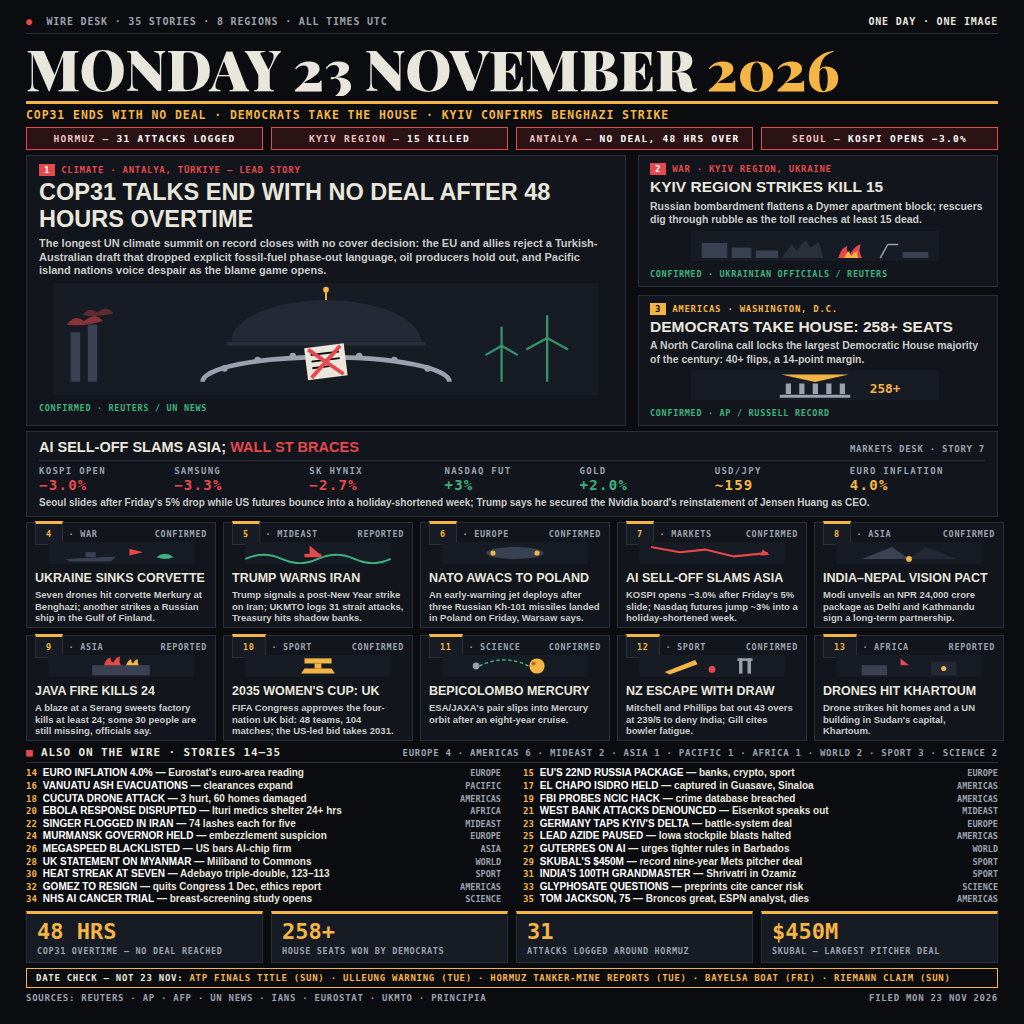
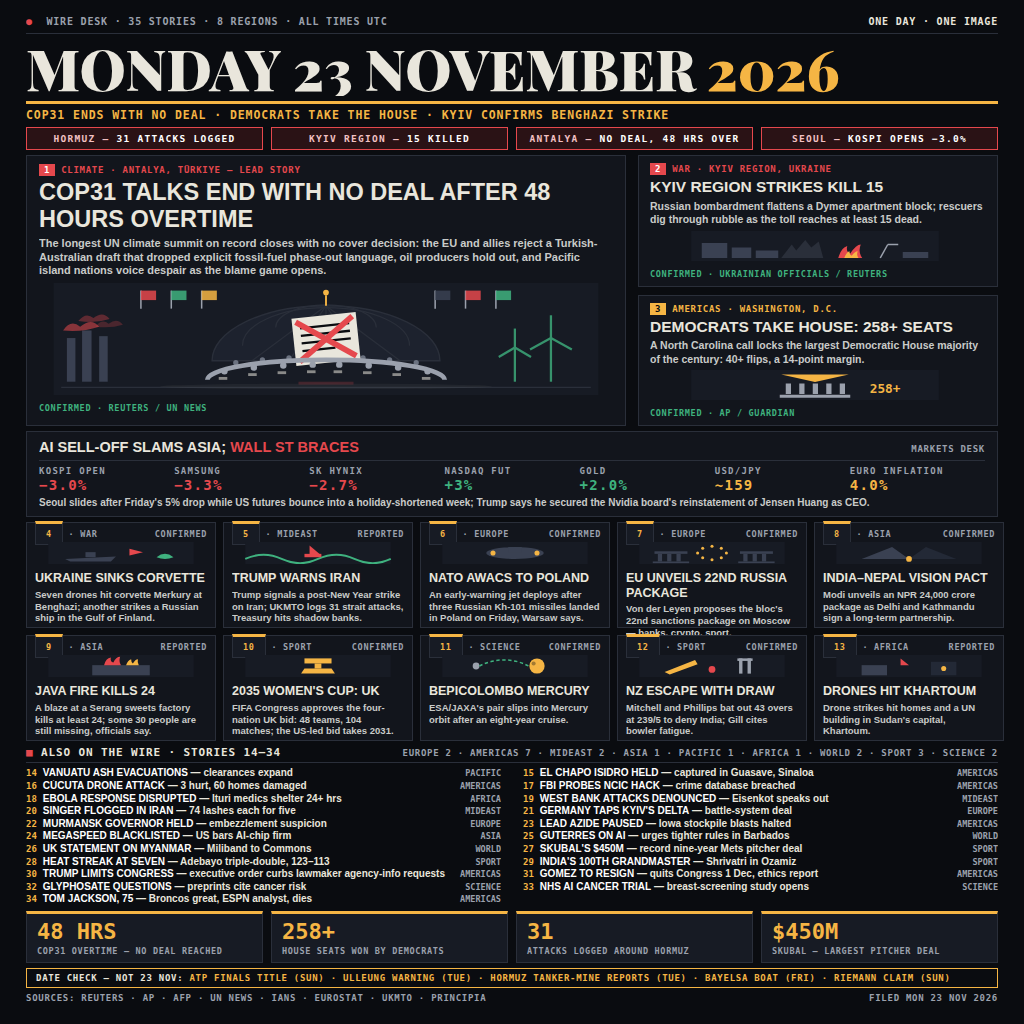
THE WIRE v1.1 — dedupe story 7 + euro inflation, richer COP31 lead art, lead-3 source

diff --git a/page.html b/page.html
@@ -132,32 +132,53 @@
       <div class="art1">
         <svg width="574" height="112" viewBox="0 0 574 118" preserveAspectRatio="xMidYMid meet">
           <rect x="0" y="0" width="574" height="118" fill="#171B24"/>
+          <!-- flags along the back wall -->
+          <g stroke="#9BA1AD" stroke-width="1.6">
+            <line x1="92" y1="8" x2="92" y2="27"/><line x1="124" y1="8" x2="124" y2="27"/><line x1="156" y1="8" x2="156" y2="27"/>
+            <line x1="402" y1="8" x2="402" y2="27"/><line x1="434" y1="8" x2="434" y2="27"/><line x1="466" y1="8" x2="466" y2="27"/>
+          </g>
+          <g opacity="0.85">
+            <rect x="92" y="8" width="16" height="10" fill="#E5484D"/><rect x="124" y="8" width="16" height="10" fill="#3FB27F"/><rect x="156" y="8" width="16" height="10" fill="#F5B544"/>
+            <rect x="402" y="8" width="16" height="10" fill="#3A4152"/><rect x="434" y="8" width="16" height="10" fill="#E5484D"/><rect x="466" y="8" width="16" height="10" fill="#3FB27F"/>
+          </g>
           <!-- factory stacks left -->
-          <rect x="18" y="52" width="10" height="52" fill="#3A4152"/><rect x="36" y="44" width="10" height="60" fill="#3A4152"/>
-          <path d="M14 44 q8 -12 18 -4 q12 -10 20 0 q-18 6 -38 4" fill="#E5484D" opacity="0.55"/>
-          <path d="M30 34 q8 -10 16 -3 q10 -8 17 1 q-15 5 -33 2" fill="#E5484D" opacity="0.35"/>
+          <rect x="14" y="58" width="9" height="46" fill="#3A4152"/><rect x="30" y="50" width="10" height="54" fill="#3A4152"/><rect x="48" y="56" width="9" height="48" fill="#3A4152"/>
+          <path d="M10 50 q8 -12 18 -4 q12 -10 20 0 q-18 6 -38 4" fill="#E5484D" opacity="0.55"/>
+          <path d="M26 40 q8 -10 16 -3 q10 -8 17 1 q-15 5 -33 2" fill="#E5484D" opacity="0.35"/>
+          <path d="M44 46 q7 -9 14 -3 q9 -7 15 1 q-13 4 -29 2" fill="#E5484D" opacity="0.25"/>
           <!-- turbines right -->
           <g stroke="#3FB27F" stroke-width="2.4" fill="none" opacity="0.8">
-            <line x1="520" y1="104" x2="520" y2="58"/><line x1="520" y1="58" x2="520" y2="34"/><line x1="520" y1="58" x2="498" y2="70"/><line x1="520" y1="58" x2="542" y2="70"/>
-            <line x1="472" y1="104" x2="472" y2="66"/><line x1="472" y1="66" x2="472" y2="46"/><line x1="472" y1="66" x2="455" y2="76"/><line x1="472" y1="66" x2="489" y2="76"/>
+            <line x1="524" y1="104" x2="524" y2="58"/><line x1="524" y1="58" x2="524" y2="34"/><line x1="524" y1="58" x2="502" y2="70"/><line x1="524" y1="58" x2="546" y2="70"/>
+            <line x1="486" y1="104" x2="486" y2="68"/><line x1="486" y1="68" x2="486" y2="48"/><line x1="486" y1="68" x2="469" y2="78"/><line x1="486" y1="68" x2="503" y2="78"/>
           </g>
-          <!-- dome -->
-          <path d="M187 62 a100 44 0 0 1 200 0 Z" fill="#232936"/>
-          <rect x="182" y="62" width="210" height="4" fill="#2A2F3A"/>
-          <line x1="287" y1="8" x2="287" y2="18" stroke="#F5B544" stroke-width="2"/>
-          <circle cx="287" cy="7" r="3" fill="#F5B544"/>
-          <!-- table arc -->
-          <path d="M157 104 a130 26 0 0 1 260 0" stroke="#9BA1AD" stroke-width="5" fill="none"/>
-          <g fill="#9BA1AD"><circle cx="180" cy="90" r="3.4"/><circle cx="215" cy="81" r="3.4"/><circle cx="252" cy="77" r="3.4"/><circle cx="322" cy="77" r="3.4"/><circle cx="359" cy="81" r="3.4"/><circle cx="394" cy="90" r="3.4"/></g>
-          <!-- draft document with red X -->
-          <g transform="rotate(-7 287 84)">
-            <rect x="266" y="66" width="42" height="34" fill="#E9E6DC"/>
-            <line x1="272" y1="74" x2="302" y2="74" stroke="#0A0C10" stroke-width="2"/>
-            <line x1="272" y1="81" x2="302" y2="81" stroke="#0A0C10" stroke-width="2"/>
-            <line x1="272" y1="88" x2="292" y2="88" stroke="#0A0C10" stroke-width="2"/>
-            <line x1="270" y1="68" x2="304" y2="98" stroke="#E5484D" stroke-width="4"/>
-            <line x1="304" y1="68" x2="270" y2="98" stroke="#E5484D" stroke-width="4"/>
+          <!-- plenary dome with ribbing -->
+          <path d="M167 82 a120 58 0 0 1 240 0 Z" fill="#1D222E" stroke="#2A2F3A" stroke-width="1.5"/>
+          <g stroke="#2A2F3A" stroke-width="1.3" fill="none">
+            <path d="M287 24 L209 82"/><path d="M287 24 L248 82"/><path d="M287 24 L287 82"/><path d="M287 24 L326 82"/><path d="M287 24 L365 82"/>
+            <path d="M199 66 a88 40 0 0 1 176 0"/><path d="M234 47 a53 24 0 0 1 106 0"/>
           </g>
+          <line x1="287" y1="13" x2="287" y2="24" stroke="#F5B544" stroke-width="2"/>
+          <circle cx="287" cy="10" r="3" fill="#F5B544"/>
+          <!-- back row of delegates -->
+          <g fill="#6B7280"><circle cx="192" cy="84" r="2.8"/><circle cx="220" cy="81" r="2.8"/><circle cx="248" cy="79" r="2.8"/><circle cx="326" cy="79" r="2.8"/><circle cx="354" cy="81" r="2.8"/><circle cx="382" cy="84" r="2.8"/></g>
+          <!-- rejected draft document, large at centre -->
+          <g transform="rotate(-6 287 59)">
+            <rect x="253" y="34" width="68" height="50" fill="#E9E6DC"/>
+            <line x1="261" y1="45" x2="313" y2="45" stroke="#0A0C10" stroke-width="2.4"/>
+            <line x1="261" y1="53" x2="313" y2="53" stroke="#0A0C10" stroke-width="2.4"/>
+            <line x1="261" y1="61" x2="313" y2="61" stroke="#0A0C10" stroke-width="2.4"/>
+            <line x1="261" y1="69" x2="296" y2="69" stroke="#0A0C10" stroke-width="2.4"/>
+            <line x1="257" y1="38" x2="317" y2="80" stroke="#E5484D" stroke-width="6"/>
+            <line x1="317" y1="38" x2="257" y2="80" stroke="#E5484D" stroke-width="6"/>
+          </g>
+          <!-- curved delegates' table with front row + nameplates -->
+          <path d="M162 102 a125 21 0 0 1 250 0" stroke="#9BA1AD" stroke-width="5" fill="none"/>
+          <g fill="#9BA1AD"><circle cx="180" cy="93" r="3.4"/><circle cx="211" cy="89" r="3.4"/><circle cx="242" cy="87" r="3.4"/><circle cx="273" cy="86" r="3.4"/><circle cx="301" cy="86" r="3.4"/><circle cx="332" cy="87" r="3.4"/><circle cx="363" cy="89" r="3.4"/><circle cx="394" cy="93" r="3.4"/></g>
+          <g fill="#E9E6DC" opacity="0.55"><rect x="174" y="99" width="9" height="3"/><rect x="205" y="95" width="9" height="3"/><rect x="236" y="93" width="9" height="3"/><rect x="267" y="92" width="9" height="3"/><rect x="295" y="92" width="9" height="3"/><rect x="326" y="93" width="9" height="3"/><rect x="357" y="95" width="9" height="3"/><rect x="388" y="99" width="9" height="3"/></g>
+          <!-- floor + reflection -->
+          <line x1="8" y1="110" x2="566" y2="110" stroke="#2A2F3A" stroke-width="1.5"/>
+          <ellipse cx="287" cy="109" rx="175" ry="3" fill="#E9E6DC" opacity="0.05"/>
+          <rect x="258" y="104" width="58" height="3" fill="#E5484D" opacity="0.22"/>
         </svg>
       </div>
       <div class="tag mono">CONFIRMED · REUTERS / UN NEWS</div>
@@ -193,7 +214,7 @@
             <text x="238" y="30" font-family="DejaVu Sans Mono" font-size="17" font-weight="700" fill="#F5B544">258+</text>
           </svg>
         </div>
-        <div class="tag mono">CONFIRMED · AP / RUSSELL RECORD</div>
+        <div class="tag mono">CONFIRMED · AP / GUARDIAN</div>
       </div>
     </div>
   </div>
@@ -202,7 +223,7 @@
   <div class="markets">
     <div class="mk-head">
       <div class="mk-title chk">AI SELL-OFF SLAMS ASIA; <span>WALL ST BRACES</span></div>
-      <div class="mk-note mono">MARKETS DESK · STORY 7</div>
+      <div class="mk-note mono">MARKETS DESK</div>
     </div>
     <div class="mk-table mono">
       <div class="mk"><div class="sym">KOSPI OPEN</div><div class="val down">−3.0%</div></div>
@@ -237,10 +258,10 @@
       <p class="chk">An early-warning jet deploys after three Russian Kh-101 missiles landed in Poland on Friday, Warsaw says.</p>
     </div>
     <div class="card">
-      <div class="desk mono"><span><span class="num">7</span> · MARKETS</span><span>CONFIRMED</span></div>
-      <svg class="strip" width="172" height="26" viewBox="0 0 172 26"><rect width="172" height="26" fill="#171B24"/><path d="M14 6 l34 6 l30 -3 l34 8 l40 -4" stroke="#E5484D" stroke-width="2.4" fill="none"/><path d="M146 9 l8 6 l-11 1 Z" fill="#E5484D"/></svg>
-      <h3 class="chk">AI SELL-OFF SLAMS ASIA</h3>
-      <p class="chk">KOSPI opens −3.0% after Friday's 5% slide; Nasdaq futures jump ~3% into a holiday-shortened week.</p>
+      <div class="desk mono"><span><span class="num">7</span> · EUROPE</span><span>CONFIRMED</span></div>
+      <svg class="strip" width="172" height="26" viewBox="0 0 172 26"><rect width="172" height="26" fill="#171B24"/><g fill="#F5B544"><circle cx="86" cy="5" r="1.8"/><circle cx="97" cy="7.5" r="1.8"/><circle cx="103" cy="13" r="1.8"/><circle cx="97" cy="18.5" r="1.8"/><circle cx="86" cy="21" r="1.8"/><circle cx="75" cy="18.5" r="1.8"/><circle cx="69" cy="13" r="1.8"/><circle cx="75" cy="7.5" r="1.8"/></g><g fill="#3A4152"><rect x="22" y="14" width="5" height="9"/><rect x="33" y="14" width="5" height="9"/><rect x="44" y="14" width="5" height="9"/><rect x="123" y="14" width="5" height="9"/><rect x="134" y="14" width="5" height="9"/><rect x="145" y="14" width="5" height="9"/></g><rect x="18" y="11" width="39" height="3" fill="#3A4152"/><rect x="119" y="11" width="39" height="3" fill="#3A4152"/><rect x="16" y="23" width="43" height="2" fill="#3A4152"/><rect x="117" y="23" width="43" height="2" fill="#3A4152"/></svg>
+      <h3 class="chk">EU UNVEILS 22ND RUSSIA PACKAGE</h3>
+      <p class="chk">Von der Leyen proposes the bloc's 22nd sanctions package on Moscow — banks, crypto, sport.</p>
     </div>
     <div class="card">
       <div class="desk mono"><span><span class="num">8</span> · ASIA</span><span>CONFIRMED</span></div>
@@ -283,32 +304,31 @@
   <!-- 7 · ALSO ON THE WIRE -->
   <div>
     <div class="also-head">
-      <div class="also-title mono"><b>■</b> ALSO ON THE WIRE · STORIES 14–35</div>
-      <div class="also-sub mono">EUROPE 4 · AMERICAS 6 · MIDEAST 2 · ASIA 1 · PACIFIC 1 · AFRICA 1 · WORLD 2 · SPORT 3 · SCIENCE 2</div>
+      <div class="also-title mono"><b>■</b> ALSO ON THE WIRE · STORIES 14–34</div>
+      <div class="also-sub mono">EUROPE 2 · AMERICAS 7 · MIDEAST 2 · ASIA 1 · PACIFIC 1 · AFRICA 1 · WORLD 2 · SPORT 3 · SCIENCE 2</div>
     </div>
     <div class="also">
-      <div class="aline chk"><span class="tx"><span class="no">14</span><b>EURO INFLATION 4.0%</b> — Eurostat's euro-area reading</span><span class="rg">EUROPE</span></div>
-      <div class="aline chk"><span class="tx"><span class="no">15</span><b>EU'S 22ND RUSSIA PACKAGE</b> — banks, crypto, sport</span><span class="rg">EUROPE</span></div>
-      <div class="aline chk"><span class="tx"><span class="no">16</span><b>VANUATU ASH EVACUATIONS</b> — clearances expand</span><span class="rg">PACIFIC</span></div>
-      <div class="aline chk"><span class="tx"><span class="no">17</span><b>EL CHAPO ISIDRO HELD</b> — captured in Guasave, Sinaloa</span><span class="rg">AMERICAS</span></div>
-      <div class="aline chk"><span class="tx"><span class="no">18</span><b>CÚCUTA DRONE ATTACK</b> — 3 hurt, 60 homes damaged</span><span class="rg">AMERICAS</span></div>
-      <div class="aline chk"><span class="tx"><span class="no">19</span><b>FBI PROBES NCIC HACK</b> — crime database breached</span><span class="rg">AMERICAS</span></div>
-      <div class="aline chk"><span class="tx"><span class="no">20</span><b>EBOLA RESPONSE DISRUPTED</b> — Ituri medics shelter 24+ hrs</span><span class="rg">AFRICA</span></div>
-      <div class="aline chk"><span class="tx"><span class="no">21</span><b>WEST BANK ATTACKS DENOUNCED</b> — Eisenkot speaks out</span><span class="rg">MIDEAST</span></div>
-      <div class="aline chk"><span class="tx"><span class="no">22</span><b>SINGER FLOGGED IN IRAN</b> — 74 lashes each for five</span><span class="rg">MIDEAST</span></div>
-      <div class="aline chk"><span class="tx"><span class="no">23</span><b>GERMANY TAPS KYIV'S DELTA</b> — battle-system deal</span><span class="rg">EUROPE</span></div>
-      <div class="aline chk"><span class="tx"><span class="no">24</span><b>MURMANSK GOVERNOR HELD</b> — embezzlement suspicion</span><span class="rg">EUROPE</span></div>
-      <div class="aline chk"><span class="tx"><span class="no">25</span><b>LEAD AZIDE PAUSED</b> — Iowa stockpile blasts halted</span><span class="rg">AMERICAS</span></div>
-      <div class="aline chk"><span class="tx"><span class="no">26</span><b>MEGASPEED BLACKLISTED</b> — US bars AI-chip firm</span><span class="rg">ASIA</span></div>
-      <div class="aline chk"><span class="tx"><span class="no">27</span><b>GUTERRES ON AI</b> — urges tighter rules in Barbados</span><span class="rg">WORLD</span></div>
-      <div class="aline chk"><span class="tx"><span class="no">28</span><b>UK STATEMENT ON MYANMAR</b> — Miliband to Commons</span><span class="rg">WORLD</span></div>
-      <div class="aline chk"><span class="tx"><span class="no">29</span><b>SKUBAL'S $450M</b> — record nine-year Mets pitcher deal</span><span class="rg">SPORT</span></div>
-      <div class="aline chk"><span class="tx"><span class="no">30</span><b>HEAT STREAK AT SEVEN</b> — Adebayo triple-double, 123–113</span><span class="rg">SPORT</span></div>
-      <div class="aline chk"><span class="tx"><span class="no">31</span><b>INDIA'S 100TH GRANDMASTER</b> — Shrivatri in Ozamiz</span><span class="rg">SPORT</span></div>
-      <div class="aline chk"><span class="tx"><span class="no">32</span><b>GOMEZ TO RESIGN</b> — quits Congress 1 Dec, ethics report</span><span class="rg">AMERICAS</span></div>
-      <div class="aline chk"><span class="tx"><span class="no">33</span><b>GLYPHOSATE QUESTIONS</b> — preprints cite cancer risk</span><span class="rg">SCIENCE</span></div>
-      <div class="aline chk"><span class="tx"><span class="no">34</span><b>NHS AI CANCER TRIAL</b> — breast-screening study opens</span><span class="rg">SCIENCE</span></div>
-      <div class="aline chk"><span class="tx"><span class="no">35</span><b>TOM JACKSON, 75</b> — Broncos great, ESPN analyst, dies</span><span class="rg">AMERICAS</span></div>
+      <div class="aline chk"><span class="tx"><span class="no">14</span><b>VANUATU ASH EVACUATIONS</b> — clearances expand</span><span class="rg">PACIFIC</span></div>
+      <div class="aline chk"><span class="tx"><span class="no">15</span><b>EL CHAPO ISIDRO HELD</b> — captured in Guasave, Sinaloa</span><span class="rg">AMERICAS</span></div>
+      <div class="aline chk"><span class="tx"><span class="no">16</span><b>CÚCUTA DRONE ATTACK</b> — 3 hurt, 60 homes damaged</span><span class="rg">AMERICAS</span></div>
+      <div class="aline chk"><span class="tx"><span class="no">17</span><b>FBI PROBES NCIC HACK</b> — crime database breached</span><span class="rg">AMERICAS</span></div>
+      <div class="aline chk"><span class="tx"><span class="no">18</span><b>EBOLA RESPONSE DISRUPTED</b> — Ituri medics shelter 24+ hrs</span><span class="rg">AFRICA</span></div>
+      <div class="aline chk"><span class="tx"><span class="no">19</span><b>WEST BANK ATTACKS DENOUNCED</b> — Eisenkot speaks out</span><span class="rg">MIDEAST</span></div>
+      <div class="aline chk"><span class="tx"><span class="no">20</span><b>SINGER FLOGGED IN IRAN</b> — 74 lashes each for five</span><span class="rg">MIDEAST</span></div>
+      <div class="aline chk"><span class="tx"><span class="no">21</span><b>GERMANY TAPS KYIV'S DELTA</b> — battle-system deal</span><span class="rg">EUROPE</span></div>
+      <div class="aline chk"><span class="tx"><span class="no">22</span><b>MURMANSK GOVERNOR HELD</b> — embezzlement suspicion</span><span class="rg">EUROPE</span></div>
+      <div class="aline chk"><span class="tx"><span class="no">23</span><b>LEAD AZIDE PAUSED</b> — Iowa stockpile blasts halted</span><span class="rg">AMERICAS</span></div>
+      <div class="aline chk"><span class="tx"><span class="no">24</span><b>MEGASPEED BLACKLISTED</b> — US bars AI-chip firm</span><span class="rg">ASIA</span></div>
+      <div class="aline chk"><span class="tx"><span class="no">25</span><b>GUTERRES ON AI</b> — urges tighter rules in Barbados</span><span class="rg">WORLD</span></div>
+      <div class="aline chk"><span class="tx"><span class="no">26</span><b>UK STATEMENT ON MYANMAR</b> — Miliband to Commons</span><span class="rg">WORLD</span></div>
+      <div class="aline chk"><span class="tx"><span class="no">27</span><b>SKUBAL'S $450M</b> — record nine-year Mets pitcher deal</span><span class="rg">SPORT</span></div>
+      <div class="aline chk"><span class="tx"><span class="no">28</span><b>HEAT STREAK AT SEVEN</b> — Adebayo triple-double, 123–113</span><span class="rg">SPORT</span></div>
+      <div class="aline chk"><span class="tx"><span class="no">29</span><b>INDIA'S 100TH GRANDMASTER</b> — Shrivatri in Ozamiz</span><span class="rg">SPORT</span></div>
+      <div class="aline chk"><span class="tx"><span class="no">30</span><b>TRUMP LIMITS CONGRESS</b> — executive order curbs lawmaker agency-info requests</span><span class="rg">AMERICAS</span></div>
+      <div class="aline chk"><span class="tx"><span class="no">31</span><b>GOMEZ TO RESIGN</b> — quits Congress 1 Dec, ethics report</span><span class="rg">AMERICAS</span></div>
+      <div class="aline chk"><span class="tx"><span class="no">32</span><b>GLYPHOSATE QUESTIONS</b> — preprints cite cancer risk</span><span class="rg">SCIENCE</span></div>
+      <div class="aline chk"><span class="tx"><span class="no">33</span><b>NHS AI CANCER TRIAL</b> — breast-screening study opens</span><span class="rg">SCIENCE</span></div>
+      <div class="aline chk"><span class="tx"><span class="no">34</span><b>TOM JACKSON, 75</b> — Broncos great, ESPN analyst, dies</span><span class="rg">AMERICAS</span></div>
     </div>
   </div>
 
